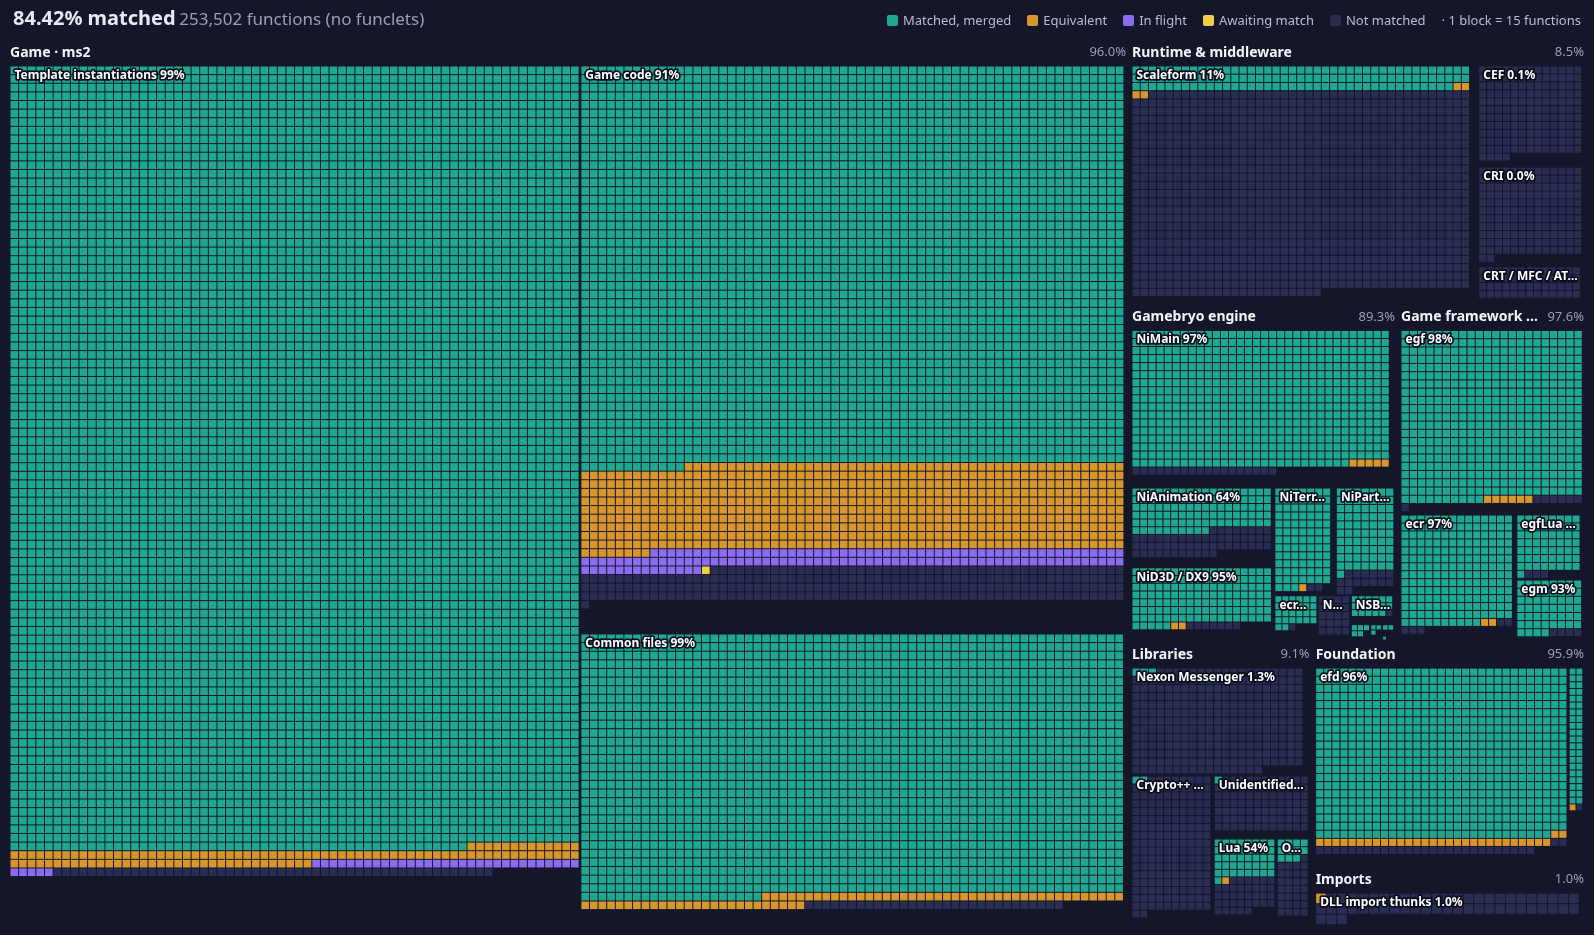
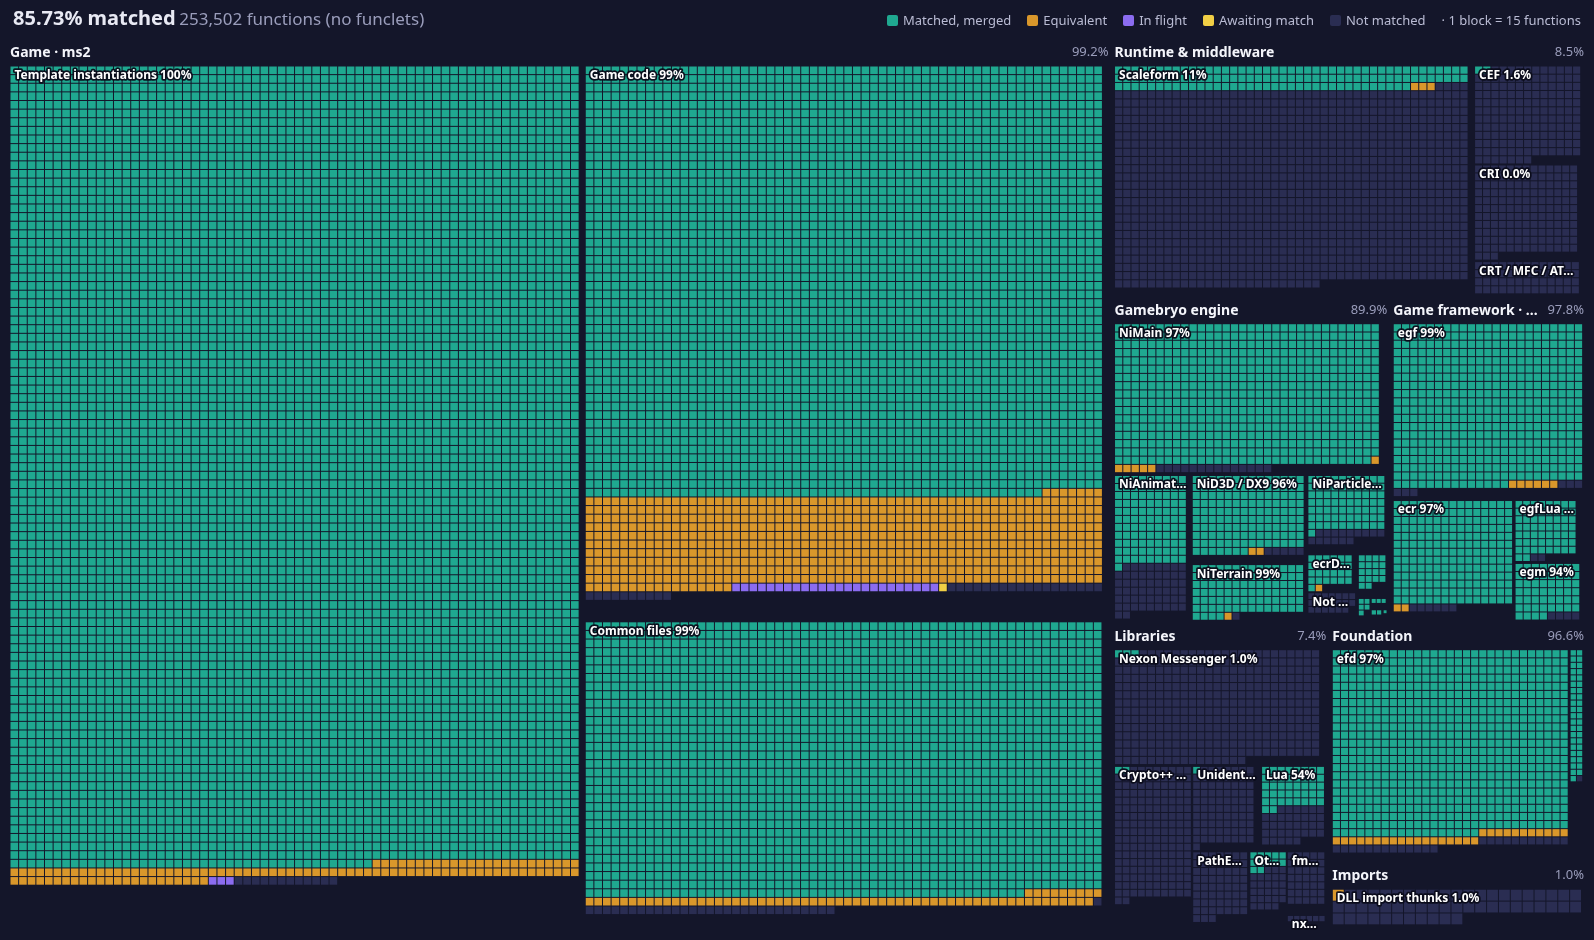
README: refresh progress image and table

diff --git a/README.md b/README.md
@@ -25,14 +25,14 @@ Merged totals by area (functions in the original executable; regenerated on each
 <!-- progress:start -->
 | Area | Functions | Matched | Equivalent | Done |
 |---|---:|---:|---:|---:|
-| Game · ms2 | 181,623 | 162,193 (89.3%) | 12,112 (6.7%) | 96.0% |
-| Runtime & middleware | 22,079 | 1,823 (8.3%) | 48 (0.2%) | 8.5% |
-| Gamebryo engine | 16,561 | 14,663 (88.5%) | 128 (0.8%) | 89.3% |
-| Game framework · egf | 11,629 | 11,227 (96.5%) | 121 (1.0%) | 97.6% |
-| Libraries | 9,571 | 864 (9.0%) | 6 (0.1%) | 9.1% |
-| Foundation | 11,257 | 10,324 (91.7%) | 472 (4.2%) | 95.9% |
+| Game · ms2 | 178,794 | 165,258 (92.4%) | 12,062 (6.7%) | 99.2% |
+| Runtime & middleware | 22,338 | 1,870 (8.4%) | 39 (0.2%) | 8.5% |
+| Gamebryo engine | 16,564 | 14,760 (89.1%) | 137 (0.8%) | 89.9% |
+| Game framework · egf | 11,692 | 11,314 (96.8%) | 115 (1.0%) | 97.8% |
+| Libraries | 12,081 | 883 (7.3%) | 6 (0.0%) | 7.4% |
+| Foundation | 11,251 | 10,431 (92.7%) | 440 (3.9%) | 96.6% |
 | Imports | 782 | 7 (0.9%) | 1 (0.1%) | 1.0% |
-| **Total** | **253,502** | 201,101 (79.3%) | 12,888 (5.1%) | 84.4% |
+| **Total** | **253,502** | 204,523 (80.7%) | 12,800 (5.0%) | 85.7% |
 <!-- progress:end -->
 
 ## Layout
